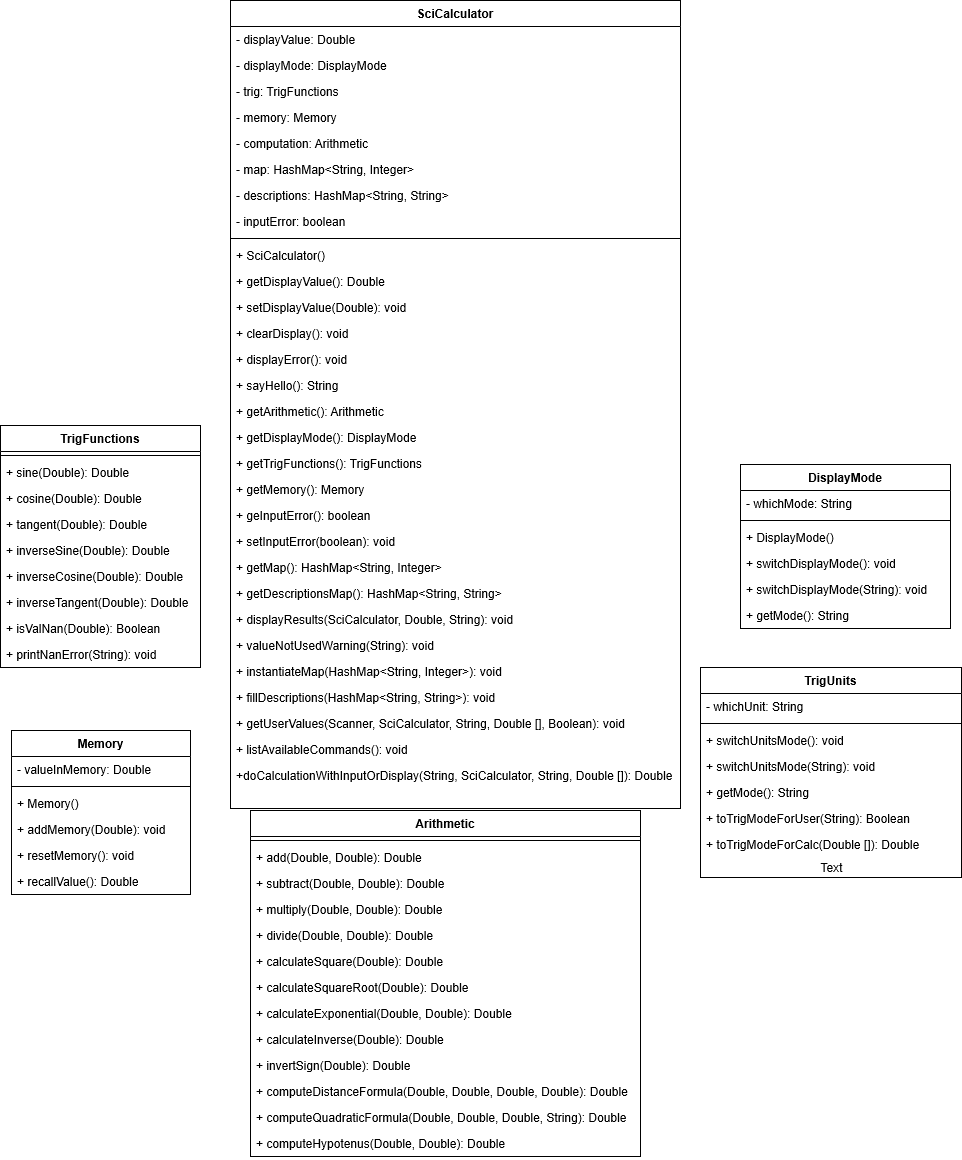
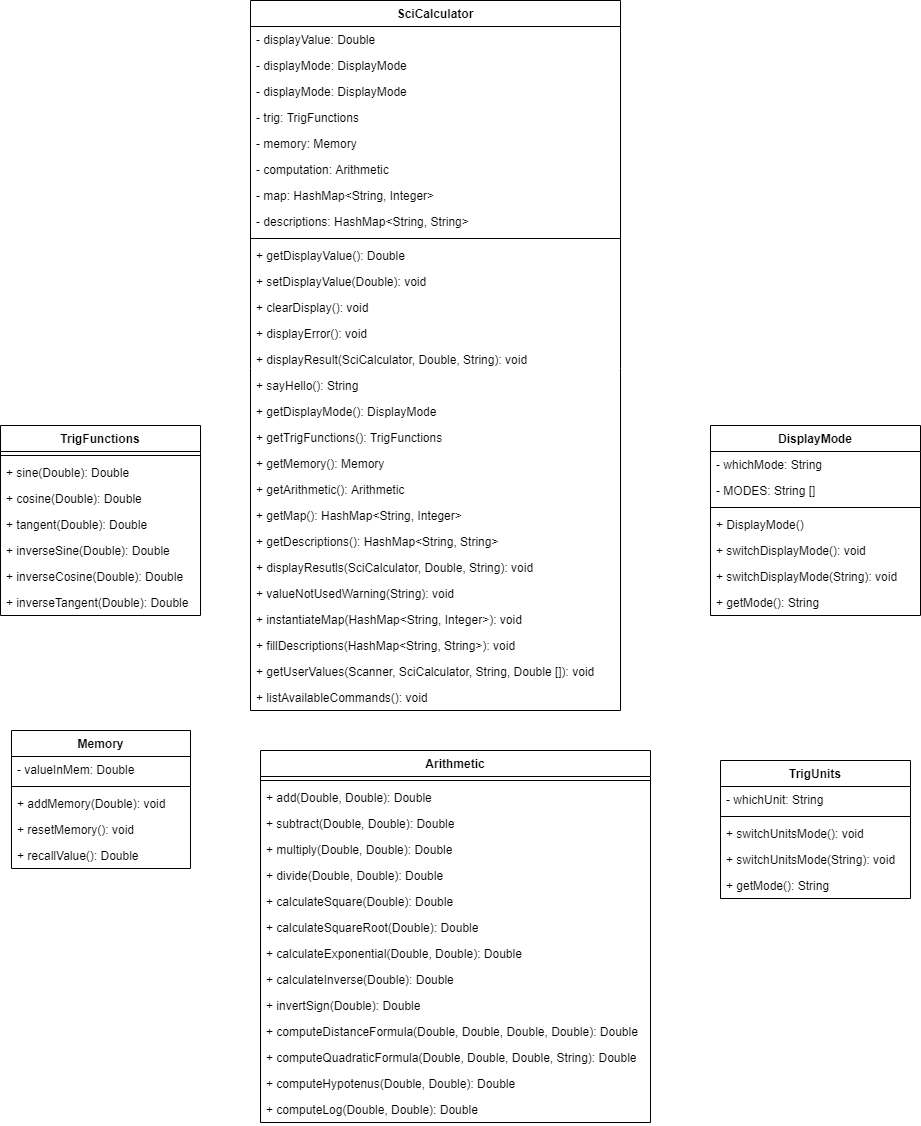
added log test

diff --git a/src/test/java/com/codedifferently/ArithmeticTest.java b/src/test/java/com/codedifferently/ArithmeticTest.java
@@ -278,6 +278,18 @@ public class ArithmeticTest {
         Assert.assertEquals(expectedResult, actualResult, 0.001);
     }
 
+    @Test
+    public void computeLog() {
+        double expectedResult = 2.485;
+        double negExpected = -1.0;
+
+        double actualResult = alu.computeLog(12);
+        double negActual = alu.computeLog(-1.0);
+
+        Assert.assertEquals("testing log", expectedResult, actualResult, 0.001);
+        Assert.assertEquals("testing negative numbers", negExpected, negActual, 0.001);
+    }
+
     @After
     public void resetData() {
         unit.setDisplayValue(0.0);

diff --git a/src/main/java/com/codedifferently/Arithmetic.java b/src/main/java/com/codedifferently/Arithmetic.java
@@ -97,4 +97,13 @@ public class Arithmetic {
         return Math.sqrt(Math.pow(a, 2) + Math.pow(b, 2));
     }
 
+    public double computeLog(double amountAlready) {
+        TrigFunctions trig = new TrigFunctions();
+        if(amountAlready < 0.0) {
+            System.out.println("value you entered is not applicable to log. Returing value entered into method.");
+            return amountAlready;
+        }
+        return Math.log(amountAlready);
+    }
+
 }
